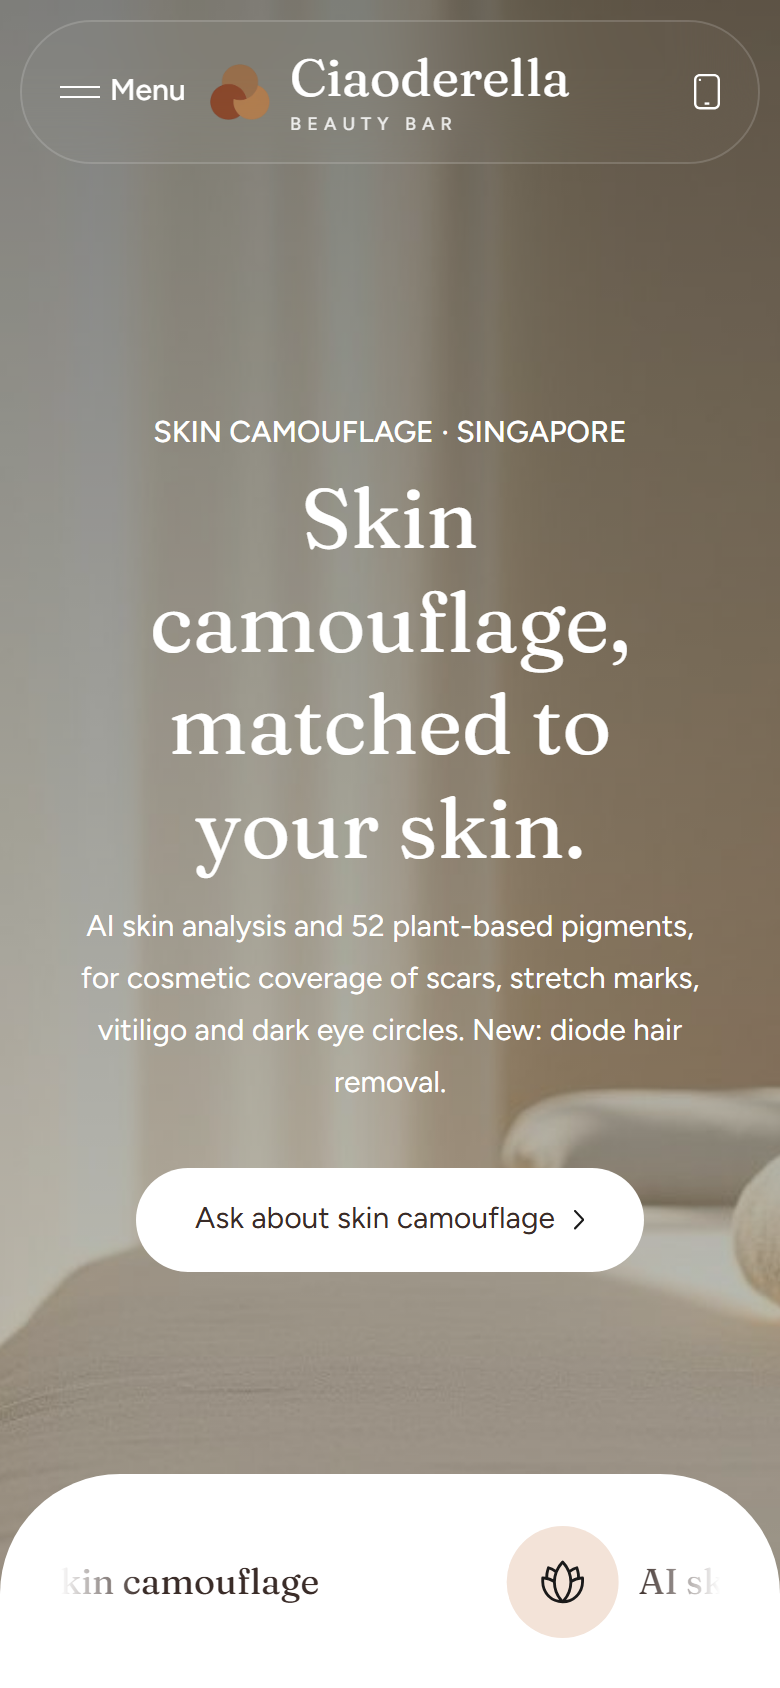
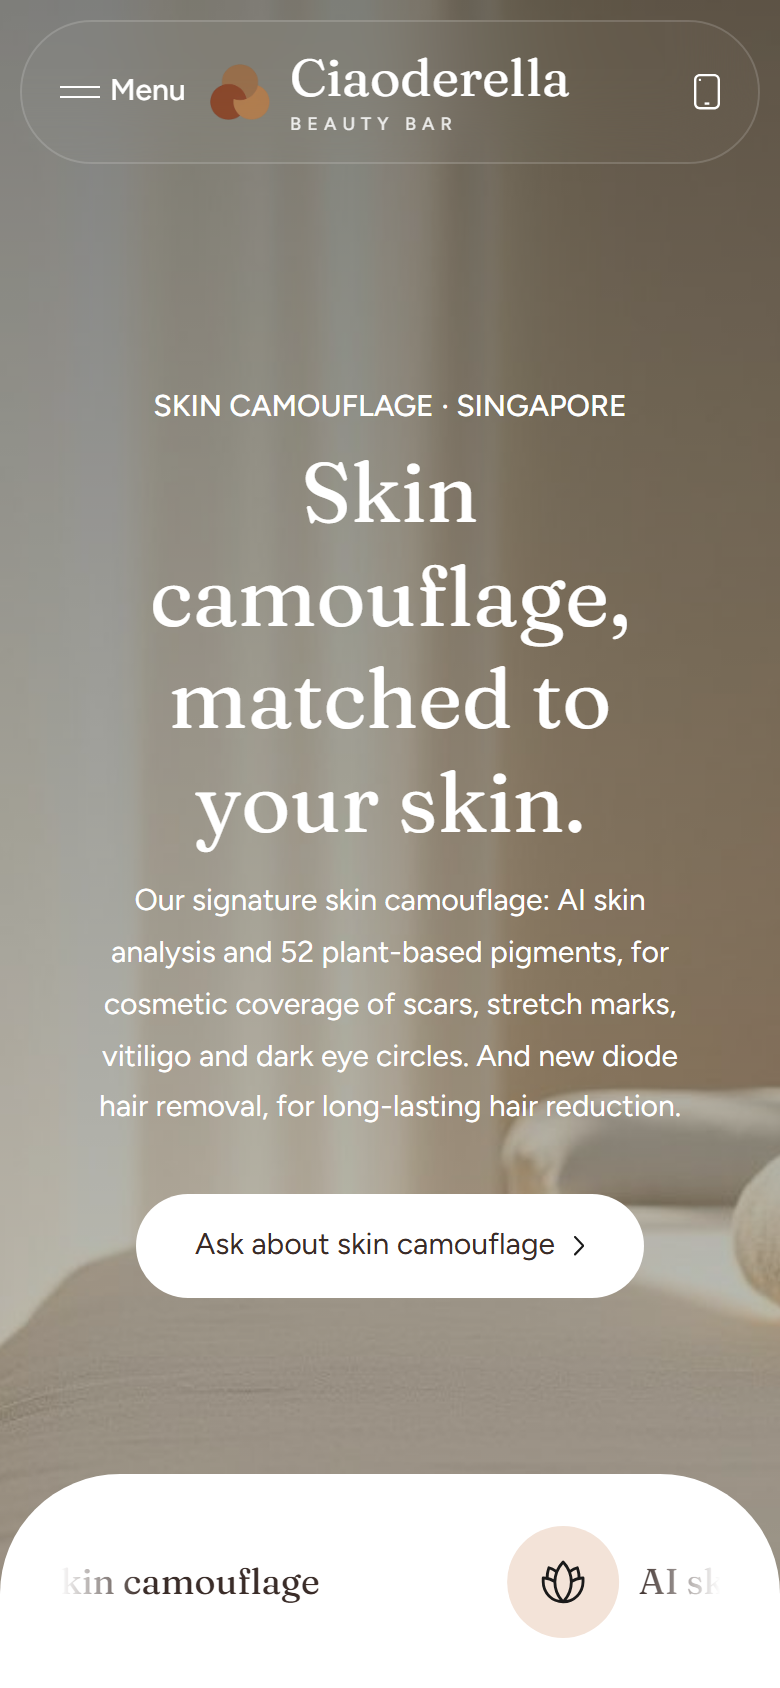
Ciaoderella preview: add diode hair removal section, update hero line

diff --git a/p/ciaoderella-beauty-bar/index.html b/p/ciaoderella-beauty-bar/index.html
@@ -168,7 +168,7 @@
           <div class="heroslider-head">
             <div class="heroslider-unique-selling-point"><p class="heroslider-text"><span class="heroslider-text-span">Skin</span> <span class="heroslider-text-span">camouflage</span> <span class="heroslider-text-span">·</span> <span class="heroslider-text-span">Singapore</span></p></div>
             <div class="heroslider-relax-refresh-renew"><h2 class="heroslider-heading"><span class="heroslider-heading-span"><span class="heroslider-heading-span-span">S</span><span class="heroslider-heading-span-span">k</span><span class="heroslider-heading-span-span">i</span><span class="heroslider-heading-span-span">n</span></span> <span class="heroslider-heading-span"><span class="heroslider-heading-span-span">c</span><span class="heroslider-heading-span-span">a</span><span class="heroslider-heading-span-span">m</span><span class="heroslider-heading-span-span">o</span><span class="heroslider-heading-span-span">u</span><span class="heroslider-heading-span-span">f</span><span class="heroslider-heading-span-span">l</span><span class="heroslider-heading-span-span">a</span><span class="heroslider-heading-span-span">g</span><span class="heroslider-heading-span-span">e</span><span class="heroslider-heading-span-span">,</span></span> <span class="heroslider-heading-span"><span class="heroslider-heading-span-span">m</span><span class="heroslider-heading-span-span">a</span><span class="heroslider-heading-span-span">t</span><span class="heroslider-heading-span-span">c</span><span class="heroslider-heading-span-span">h</span><span class="heroslider-heading-span-span">e</span><span class="heroslider-heading-span-span">d</span></span> <span class="heroslider-heading-span"><span class="heroslider-heading-span-span">t</span><span class="heroslider-heading-span-span">o</span></span> <span class="heroslider-heading-span"><span class="heroslider-heading-span-span">y</span><span class="heroslider-heading-span-span">o</span><span class="heroslider-heading-span-span">u</span><span class="heroslider-heading-span-span">r</span></span> <span class="heroslider-heading-span"><span class="heroslider-heading-span-span">s</span><span class="heroslider-heading-span-span">k</span><span class="heroslider-heading-span-span">i</span><span class="heroslider-heading-span-span">n</span><span class="heroslider-heading-span-span">.</span></span></h2></div>
-            <div data-appear="0.5" data-appear-y="60" class="heroslider-experience-ultimate-relaxation-with-our"><p class="heroslider-text">AI skin analysis and 52 plant-based pigments, for cosmetic coverage of scars, stretch marks, vitiligo and dark eye circles. New: diode hair removal.</p></div>
+            <div data-appear="0.5" data-appear-y="60" class="heroslider-experience-ultimate-relaxation-with-our"><p class="heroslider-text">Our signature skin camouflage: AI skin analysis and 52 plant-based pigments, for cosmetic coverage of scars, stretch marks, vitiligo and dark eye circles. And new diode hair removal, for long-lasting hair reduction.</p></div>
           </div>
           <div data-appear="0.7" data-appear-y="60" class="heroslider-btn">
             <div class="heroslider-btn-div">
@@ -197,7 +197,7 @@
           <div class="heroslider-head-2">
             <div class="heroslider-unique-selling-point-2"><p class="heroslider-text-2"><span class="heroslider-text-2-span">Skin</span> <span class="heroslider-text-2-span">camouflage</span> <span class="heroslider-text-2-span">·</span> <span class="heroslider-text-2-span">Singapore</span></p></div>
             <div class="heroslider-relax-refresh-renew-2"><h1 class="heroslider-heading-2"><span class="heroslider-heading-2-span"><span class="heroslider-heroslider-heading-2-span">S</span><span class="heroslider-heroslider-heading-2-span">k</span><span class="heroslider-heroslider-heading-2-span">i</span><span class="heroslider-heroslider-heading-2-span">n</span></span> <span class="heroslider-heading-2-span"><span class="heroslider-heroslider-heading-2-span">c</span><span class="heroslider-heroslider-heading-2-span">a</span><span class="heroslider-heroslider-heading-2-span">m</span><span class="heroslider-heroslider-heading-2-span">o</span><span class="heroslider-heroslider-heading-2-span">u</span><span class="heroslider-heroslider-heading-2-span">f</span><span class="heroslider-heroslider-heading-2-span">l</span><span class="heroslider-heroslider-heading-2-span">a</span><span class="heroslider-heroslider-heading-2-span">g</span><span class="heroslider-heroslider-heading-2-span">e</span><span class="heroslider-heroslider-heading-2-span">,</span></span> <span class="heroslider-heading-2-span"><span class="heroslider-heroslider-heading-2-span">m</span><span class="heroslider-heroslider-heading-2-span">a</span><span class="heroslider-heroslider-heading-2-span">t</span><span class="heroslider-heroslider-heading-2-span">c</span><span class="heroslider-heroslider-heading-2-span">h</span><span class="heroslider-heroslider-heading-2-span">e</span><span class="heroslider-heroslider-heading-2-span">d</span></span> <span class="heroslider-heading-2-span"><span class="heroslider-heroslider-heading-2-span">t</span><span class="heroslider-heroslider-heading-2-span">o</span></span> <span class="heroslider-heading-2-span"><span class="heroslider-heroslider-heading-2-span">y</span><span class="heroslider-heroslider-heading-2-span">o</span><span class="heroslider-heroslider-heading-2-span">u</span><span class="heroslider-heroslider-heading-2-span">r</span></span> <span class="heroslider-heading-2-span"><span class="heroslider-heroslider-heading-2-span">s</span><span class="heroslider-heroslider-heading-2-span">k</span><span class="heroslider-heroslider-heading-2-span">i</span><span class="heroslider-heroslider-heading-2-span">n</span><span class="heroslider-heroslider-heading-2-span">.</span></span></h1></div>
-            <div data-appear="0.5" data-appear-y="60" class="heroslider-experience-ultimate-relaxation-with-our-2"><p class="heroslider-text-2">AI skin analysis and 52 plant-based pigments, for cosmetic coverage of scars, stretch marks, vitiligo and dark eye circles. New: diode hair removal.</p></div>
+            <div data-appear="0.5" data-appear-y="60" class="heroslider-experience-ultimate-relaxation-with-our-2"><p class="heroslider-text-2">Our signature skin camouflage: AI skin analysis and 52 plant-based pigments, for cosmetic coverage of scars, stretch marks, vitiligo and dark eye circles. And new diode hair removal, for long-lasting hair reduction.</p></div>
           </div>
           <div data-appear="0.7" data-appear-y="60" class="heroslider-btn-2">
             <div class="heroslider-btn-2-div">
@@ -603,16 +603,42 @@
           <a class="cd-btn" href="https://wa.me/6593292550?text=Hi%20Ciaoderella%20Beauty%20Bar%2C%20I%27d%20like%20to%20ask%20about%20skin%20camouflage%20for%20%28scar%20%2F%20stretch%20marks%20%2F%20vitiligo%20%2F%20dark%20eye%20circles%29." target="_blank" rel="noopener"><span>Ask about skin camouflage</span><svg width="5" height="10" viewBox="0 0 5 10" fill="none" stroke="currentColor" stroke-width="1" stroke-linecap="round" stroke-linejoin="round" aria-hidden="true"><path d="M.5.5 4.5 5l-4 4.5"/></svg></a>
         </div>
       </article>
-      <article class="cd-card" id="hair-removal" data-appear="0.3" data-appear-y="60" data-appear-amount="0">
+      <article class="cd-card" id="hair-card" data-appear="0.3" data-appear-y="60" data-appear-amount="0">
         <div class="cd-card-img"><img src="img/skin.jpg" alt="A relaxed hand and forearm resting on cream linen" width="1216" height="832" loading="lazy"><span class="cd-new">New</span></div>
         <div class="cd-card-body">
           <p class="cd-tag">New treatment</p>
           <h3 class="cd-h3">Diode hair removal</h3>
           <p class="cd-text">Hair removal with a diode hair removal machine, now available at Ciaoderella Beauty Bar. Message us to ask about the area you have in mind.</p>
-          <a class="cd-btn" href="https://wa.me/6593292550?text=Hi%20Ciaoderella%20Beauty%20Bar%2C%20I%27d%20like%20to%20ask%20about%20diode%20hair%20removal." target="_blank" rel="noopener"><span>Ask about hair removal</span><svg width="5" height="10" viewBox="0 0 5 10" fill="none" stroke="currentColor" stroke-width="1" stroke-linecap="round" stroke-linejoin="round" aria-hidden="true"><path d="M.5.5 4.5 5l-4 4.5"/></svg></a>
+          <a class="cd-btn" href="#hair-removal"><span>Ask about hair removal</span><svg width="5" height="10" viewBox="0 0 5 10" fill="none" stroke="currentColor" stroke-width="1" stroke-linecap="round" stroke-linejoin="round" aria-hidden="true"><path d="M.5.5 4.5 5l-4 4.5"/></svg></a>
         </div>
       </article>
     </div>
+  </div>
+</section>
+<section class="cd-diode" id="hair-removal">
+  <div class="cd-wrap cd-diode-grid">
+    <div class="cd-diode-copy">
+      <div class="cd-head" data-appear="0.1" data-appear-y="60" data-appear-amount="0">
+        <p class="cd-kicker">New treatment</p>
+        <h2 class="cd-h2">New: Diode hair removal.</h2>
+        <p class="cd-lead">A diode hair removal machine uses a diode laser to send light energy into the hair. The pigment in the hair absorbs that light and turns it to heat, which warms the follicle and slows regrowth. The aim is long-lasting hair reduction.</p>
+      </div>
+      <div class="cd-diode-block" data-appear="0.2" data-appear-y="40" data-appear-amount="0">
+        <h3 class="cd-h4">Areas you can ask about</h3>
+        <ul class="cd-chips"><li><a href="https://wa.me/6593292550?text=Hi%20Ciaoderella%20Beauty%20Bar%2C%20I%27d%20like%20to%20ask%20about%20diode%20hair%20removal%20%28area%3A%20underarms%29." target="_blank" rel="noopener">Underarms</a></li><li><a href="https://wa.me/6593292550?text=Hi%20Ciaoderella%20Beauty%20Bar%2C%20I%27d%20like%20to%20ask%20about%20diode%20hair%20removal%20%28area%3A%20arms%29." target="_blank" rel="noopener">Arms</a></li><li><a href="https://wa.me/6593292550?text=Hi%20Ciaoderella%20Beauty%20Bar%2C%20I%27d%20like%20to%20ask%20about%20diode%20hair%20removal%20%28area%3A%20legs%29." target="_blank" rel="noopener">Legs</a></li><li><a href="https://wa.me/6593292550?text=Hi%20Ciaoderella%20Beauty%20Bar%2C%20I%27d%20like%20to%20ask%20about%20diode%20hair%20removal%20%28area%3A%20bikini%20line%29." target="_blank" rel="noopener">Bikini line</a></li><li><a href="https://wa.me/6593292550?text=Hi%20Ciaoderella%20Beauty%20Bar%2C%20I%27d%20like%20to%20ask%20about%20diode%20hair%20removal%20%28area%3A%20face%20and%20upper%20lip%29." target="_blank" rel="noopener">Face and upper lip</a></li><li><a href="https://wa.me/6593292550?text=Hi%20Ciaoderella%20Beauty%20Bar%2C%20I%27d%20like%20to%20ask%20about%20diode%20hair%20removal%20%28area%3A%20back%29." target="_blank" rel="noopener">Back</a></li></ul>
+        <p class="cd-small">These are areas people commonly ask about, not a fixed menu. Tell us the area you have in mind and we will reply on WhatsApp.</p>
+      </div>
+      <ul class="cd-facts">
+        <li data-appear="0.3" data-appear-y="30" data-appear-amount="0"><h3 class="cd-h4">Built up over a series of sessions</h3><p class="cd-text">Hair grows in cycles, and the light only works on hair in the right stage. So results build over several sessions spaced weeks apart, rather than in one visit.</p></li>
+        <li data-appear="0.4" data-appear-y="30" data-appear-amount="0"><h3 class="cd-h4">Quick for small areas</h3><p class="cd-text">A small area such as the underarms or upper lip takes only a short time.</p></li>
+      </ul>
+      <div class="cd-ask" data-appear="0.5" data-appear-y="30" data-appear-amount="0">
+        <p class="cd-ask-title">Is it for me? Message us.</p>
+        <p class="cd-text">Tell us the area and we will talk it through with you.</p>
+        <a class="cd-btn" href="https://wa.me/6593292550?text=Hi%20Ciaoderella%20Beauty%20Bar%2C%20I%27d%20like%20to%20ask%20about%20diode%20hair%20removal%20%28area%3A%20____%29." target="_blank" rel="noopener"><span>Ask about diode hair removal</span><svg width="5" height="10" viewBox="0 0 5 10" fill="none" stroke="currentColor" stroke-width="1" stroke-linecap="round" stroke-linejoin="round" aria-hidden="true"><path d="M.5.5 4.5 5l-4 4.5"/></svg></a>
+      </div>
+    </div>
+    <div class="cd-diode-img" data-appear="0.2" data-appear-y="60" data-appear-amount="0"><img src="img/diode.jpg" alt="A white handheld treatment device resting on a folded towel in a calm treatment room" width="1216" height="832" loading="lazy"><span class="cd-new">New</span></div>
   </div>
 </section>
 <section class="cd-how" id="how-it-works">

diff --git a/p/ciaoderella-beauty-bar/css/lead.css b/p/ciaoderella-beauty-bar/css/lead.css
@@ -101,3 +101,26 @@ a.cd-btn, a.primary, a.heroslider-white, a.heroslider-white-2, a.cta-section-whi
 .cta-section-container-2 { height: auto; flex: 0 0 auto; }
 @media (max-width: 1199.98px) { .cta-section-cta-section { height: auto; min-height: 50vh; padding: 80px 0; } }
 @media (max-width: 809.98px) { .cta-section-cta-section { padding: 64px 0; } }
+
+/* --- 9. diode hair removal section --------------------------------------------------------------- */
+.cd-diode { width: 100%; background: #F3E3D8; padding: 110px 0; }
+.cd-diode-grid { display: grid; grid-template-columns: minmax(0, 1.1fr) minmax(0, 0.9fr); gap: 80px; align-items: start; }
+.cd-diode-copy { display: flex; flex-direction: column; align-items: flex-start; gap: 36px; }
+.cd-diode-copy .cd-head { margin-bottom: 0; }
+.cd-diode-img { position: sticky; top: 100px; border-radius: 28px; overflow: hidden; aspect-ratio: 4 / 5; }
+.cd-diode-img img { width: 100%; height: 100%; object-fit: cover; }
+.cd-diode-img .cd-new { position: absolute; top: 20px; left: 20px; }
+.cd-small { margin: 14px 0 0; font: 400 14px/1.6 Figtree, sans-serif; color: var(--ink); opacity: 0.8; }
+.cd-facts { display: grid; grid-template-columns: repeat(2, minmax(0, 1fr)); gap: 24px; margin: 0; padding: 0; list-style: none; width: 100%; }
+.cd-facts li { padding-top: 22px; border-top: 1px solid var(--sand); }
+.cd-ask { display: flex; flex-direction: column; align-items: flex-start; gap: 14px; padding: 32px; border-radius: 24px; background: #fff; width: 100%; box-sizing: border-box; }
+.cd-ask-title { margin: 0; font: 400 28px/1.2 Fraunces, serif; color: var(--ink); }
+@media (max-width: 1199.98px) { .cd-diode { padding: 90px 0; } .cd-diode-grid { gap: 48px; } }
+@media (max-width: 809.98px) {
+  .cd-diode { padding: 64px 0; }
+  .cd-diode-grid { grid-template-columns: minmax(0, 1fr); gap: 36px; }
+  .cd-diode-img { position: static; aspect-ratio: 3 / 2; order: -1; }
+  .cd-facts { grid-template-columns: minmax(0, 1fr); }
+  .cd-ask { padding: 24px 22px; }
+  .cd-ask-title { font-size: 24px; }
+}
